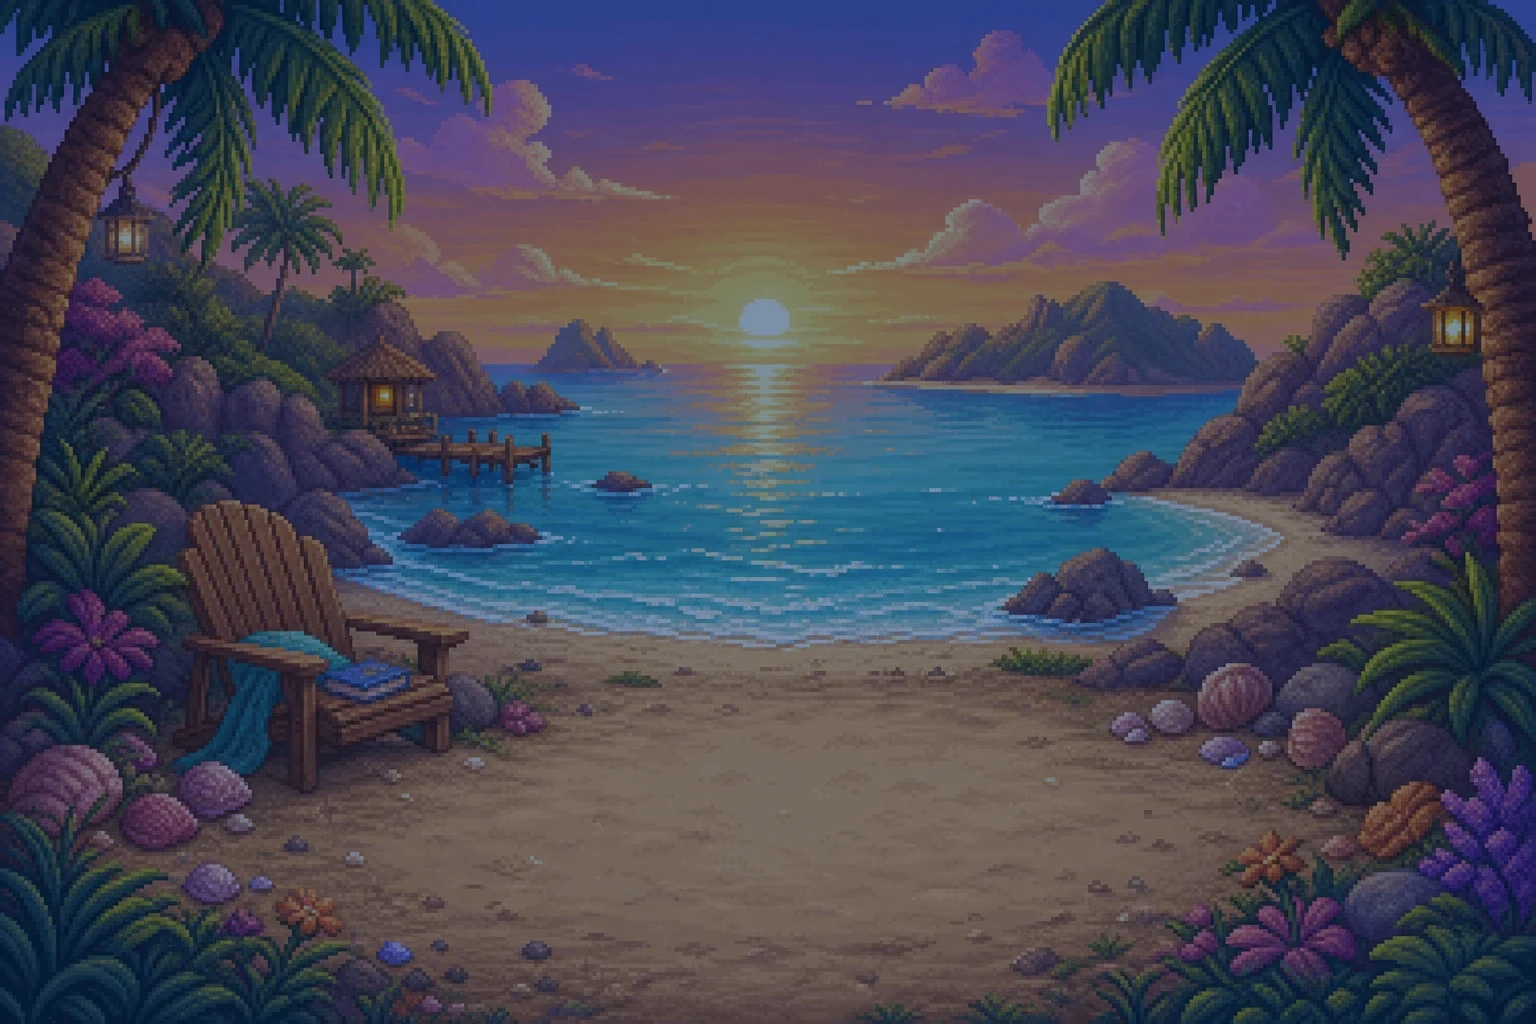
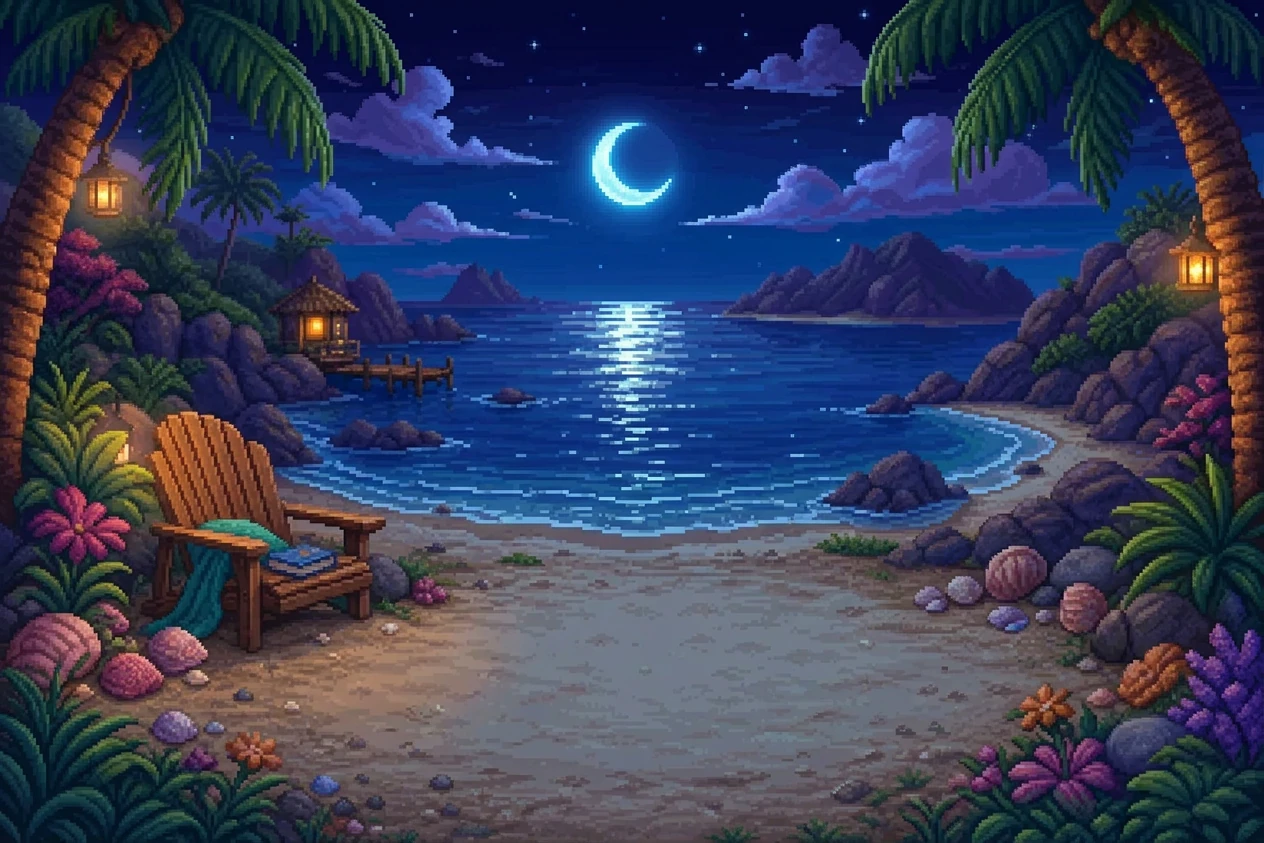
Add miniature companions and refine retained accessories

diff --git a/src/components/PetAccessory.tsx b/src/components/PetAccessory.tsx
@@ -13,6 +13,7 @@ const ART_BOUNDS = [
 /** Iconos de píxel vectoriales, compartidos por el vestidor y la escena. */
 export function PetAccessory({ id, className = '' }: { id: number; className?: string }) {
   const item = PET_ACCESSORIES[id]; if (!item) return null;
+  if (item.companion) return <img aria-hidden="true" alt="" src={item.companion.image} className={className} style={{ objectFit: 'contain', imageRendering: 'pixelated', filter: item.companion.filter }} />;
   const { kind, variant } = item;
   const ink = '#303047', main = variant ? '#7661b1' : '#cf554d', light = variant ? '#dcd3f3' : '#ffe6c5';
   return <svg aria-hidden="true" className={className} viewBox={ART_BOUNDS[kind]} preserveAspectRatio="xMidYMax meet" shapeRendering="crispEdges">
@@ -30,7 +31,7 @@ export function PetAccessory({ id, className = '' }: { id: number; className?: s
     {kind === 2 && <><path fill="#302020" d="M8 54h84v8H8zM19 49h62v7H19zM25 22h13v7h24v-7h13v29H25z"/><path fill={variant?'#ba8250':'#94613a'} d="M30 28h7v6h26v-6h7v20H30z"/><path fill="#d8a66d" d="M32 30h4v6h28v-6h4v5H32z"/><path fill="#693f2e" d="M29 41h42v8H29z"/><path fill="#e9bd6b" d="M44 41h12v8H44z"/><path fill="#6e4a31" d="M47 43h6v4h-6z"/><path fill="#bc8c59" d="M13 56h74v3H13z"/></>}
     {kind === 3 && <><path fill="#35231e" d="M31 25h13v-9h11v9h14v5h9v7h4v23h-5v7h-9v5H32v-5h-9v-7h-5V37h5v-7h8z"/><path fill={variant?'#eea847':'#d9702f'} d="M29 33h42v6h6v20h-6v6H29v-6h-6V39h6z"/><path fill="#f2a143" d="M37 31h9v34h-9zM54 31h9v34h-9z"/><path fill="#b85224" d="M33 37h3v20h-3zm30 0h3v20h-3z"/><path fill="#48683b" d="M46 17h8v14h-8zm7 0h12v5H53z"/><path fill="#f8d079" d="M33 36h4v4h-4zm23-2h4v4h-4z"/><path fill="#39241e" d="M33 43h7v6h-7zm27 0h7v6h-7zM38 55h24v4H38z"/></>}
     {kind === 4 && <><path fill="#304c32" d="M46 35h8v34h-8zM31 30h15v6H31zM54 25h15v6H54z"/><path fill="#4d8b50" d="M24 25h11v6h11v10H34v-5H24zm30 0h9v-6h14v10h-7v6H54z"/><path fill="#9bd180" d="M27 27h8v4h6v4h-7v-3h-7zm32-3h6v-3h8v4h-5v4h-9z"/>{!!variant && <><path fill="#8c546e" d="M43 10h14v6h7v12h-7v7H43v-7h-7V16h7z"/><path fill="#eaa7ba" d="M44 13h12v5h5v9h-5v5H44v-5h-5v-9h5z"/><path fill="#f4d06c" d="M46 20h8v7h-8z"/></>}</>}
-    {kind === 5 && <><path fill="#553044" d="M23 24h10v-6h13v7h8v-7h13v6h10v20H70v8h-8v8H38v-8h-8v-8h-7z"/><path fill={variant?'#dc769c':'#d5455a'} d="M28 25h13v7h18v-7h13v17h-8v8h-8v6H44v-6h-8v-8h-8z"/><path fill="#f78c97" d="M31 26h8v5h7v5H31zm24 18h7v5h-7z"/><path fill="#ffd6cc" d="M32 28h5v5h-5z"/></>}
+    {kind === 5 && <><path fill="#553044" d="M23 24h10v-6h13v7h8v-7h13v6h10v20H70v8h-8v8H38v-8h-8v-8h-7z"/><path fill={variant?'#55b9e8':'#d5455a'} d="M28 25h13v7h18v-7h13v17h-8v8h-8v6H44v-6h-8v-8h-8z"/><path fill={variant ? '#a6e4fa' : '#f78c97'} d="M31 26h8v5h7v5H31zm24 18h7v5h-7z"/><path fill={variant ? '#e8faff' : '#ffd6cc'} d="M32 28h5v5h-5z"/></>}
     {kind === 6 && <><path fill="#5a3a2b" d="M19 23h9v8h10V20h9v10h7V20h9v11h10v-8h9v42H19z"/><path fill="#c9923f" d="M24 34h18v-8h4v11h9V26h4v8h18v25H24z"/><path fill="#f3d46d" d="M28 36h13v4H28zm19 0h7v4h-7zm13 0h13v4H60zM25 56h50v4H25z"/><path fill={variant?'#ed9fac':'#87b6c8'} d="M31 46h6v7h-6zm16 0h6v7h-6zm16 0h6v7h-6z"/><path fill="#fff3be" d="M32 46h3v3h-3zm16 0h3v3h-3zm16 0h3v3h-3z"/></>}
     {kind === 7 && <><path fill={ink} d="M45 8h10l26 54H19zM14 60h72v8H14z"/><path fill={variant?'#e79a66':'#72a8c7'} d="M49 18l23 42H28z"/><path fill="#f7d877" d="M39 40h7v7h-7zm17-9h7v7h-7zm1 21h7v7h-7zM46 6h8v9h-8z"/></>}
     {kind === 8 && <><path fill={ink} d="M16 25h68v26H73v11H27V51H16z"/><path fill={variant?'#f3eee2':'#555666'} d="M21 30h58v17H68v10H32V47H21z"/><path fill={variant?'#54769b':'#e7e2cf'} d="M44 34h12v12H44zM39 48h22v4H39z"/></>}
@@ -39,7 +40,7 @@ export function PetAccessory({ id, className = '' }: { id: number; className?: s
     {kind === 11 && <><path fill={ink} d="M22 50h56v15H22zM26 36h7V25h8v-6h18v6h8v11h7v14H26z"/><path fill={variant?'#78a8c9':'#bd6273'} d="M31 38h7V28h24v10h7v12H31z"/><path fill={light} d="M22 52h56v10H22zM45 13h10v10H45z"/></>}
     {kind === 12 && <><path fill={ink} d="M21 27h8V17h42v10h8v38H21z"/><path fill={variant?'#a18b6f':'#9da9b5'} d="M27 28h7v-7h32v7h7v31H27z"/><path fill={ink} d="M30 40h40v7H30zM44 48h12v11H44z"/><path fill="#eff3e5" d="M34 31h32v4H34z"/></>}
     {kind === 13 && <><path fill={ink} d="M24 62V23h8v-7h8v23h20V16h8v7h8v39h-8V49H32v13z"/><path fill={main} d="M28 23h8v20h28V23h8v35h-6V45H34v13h-6z"/><path fill={light} d="M31 27h5v12h-5zm34 0h5v12h-5z"/></>}
-    {kind === 14 && <><path fill="#85633f" d="M17 31h8v-6h50v6h8v12h-8v6H25v-6h-8z"/><path fill={variant?'#d2d9f6':'#f9db74'} d="M25 29h50v5H25zM21 34h7v7h-7zm51 0h7v7h-7zM27 41h46v5H27z"/></>}
+    {kind === 14 && <><path fill={variant ? '#657487' : '#85633f'} d="M17 31h8v-6h50v6h8v12h-8v6H25v-6h-8z"/><path fill={variant?'#d8e3f1':'#f9db74'} d="M25 29h50v5H25zM21 34h7v7h-7zm51 0h7v7h-7zM27 41h46v5H27z"/></>}
     {kind === 15 && <><path fill="#d49646" d="M46 11h8v17h13v8h-9v13h-8v14h-8V49h-9V36h-9v-8h22z"/><path fill="#ffe68a" d="M47 21h6v14h9v5h-9v13h-6V40h-9v-5h9z"/>{!!variant && <path fill="#f5d977" d="M17 18h6v6h-6zm58 27h7v7h-7z"/>}</>}
     {kind === 16 && <><path fill="#e6b456" d="M39 11h22v8H48v9h-7v21h7v8h16v8H39v-7H27v-9h-6V27h6v-9h12z"/><path fill="#ffe7a4" d="M39 18h9v10h-7v21h7v8h-9v-7h-7V27h7z"/>{!!variant && <circle cx="51" cy="39" r="13" fill="#f5b64b"/>}</>}
     {kind === 17 && <><path fill="#98b4c5" d="M17 38h12v-9h10V19h22v8h11v10h11v18H17z"/><path fill="#f2f6f4" d="M22 38h11v-9h12v-7h14v9h11v8h9v11H22z"/>{!!variant && <path stroke="#68a8d4" strokeWidth="5" d="M30 58v9m20-9v9m20-9v9"/>}</>}
@@ -50,6 +51,15 @@ export function PetAccessory({ id, className = '' }: { id: number; className?: s
     {kind === 22 && <><path fill="#527e43" d="M47 47h6v22h-6z"/><path fill={variant?'#68ad61':'#d28242'} d="M47 46H35v-7h-9V27h9v-8h12v8h6v-8h12v8h9v12h-9v7H53z"/><path fill="#c9db8b" d="M47 32h6v15h-6z"/></>}
     {kind === 23 && <><path fill="#9c7040" d="M39 19h22v7h7v27h7v7H25v-7h7V26h7zM45 62h10v7H45z"/><path fill={variant?'#d5eafa':'#f5ca61'} d="M39 27h22v27H39z"/><path fill="#fff1bd" d="M42 30h6v16h-6z"/></>}
     {kind === 24 && <><path fill="#4e567e" d="M38 14h24l15 24-27 30-27-30z"/><path fill={variant?'#a6e1e9':'#aa94df'} d="M41 19h18l12 19-21 24-21-24z"/><path fill="#f1effe" d="M43 24h6v11h-6zm12 15h5v10h-5z"/></>}
+    {/* Costuras, reflejos y textura fina en los diseños conservados. */}
+    {kind === 0 && <><path fill={variant ? '#88d7a0' : '#ff9f91'} d="M31 45h2v-3h2v-3h2v-3h2v2h-2v3h-2v3h-2v3h-2zM54 32h2v3h2v3h2v3h-2v-2h-2v-3h-2z"/><path fill="#c6c1b6" d="M18 63h3v2h-3zm12 0h3v2h-3zm12 0h3v2h-3zm12 0h3v2h-3zm12 0h3v2h-3zm12 0h3v2h-3z"/></>}
+    {kind === 1 && <path fill="#e6d0a0" d="M35 48h2v2h-2zm7 0h2v2h-2zm17 0h2v2h-2zm7 0h2v2h-2zM48 19h2v3h-2zm6 11h2v2h-2z"/>}
+    {kind === 2 && <><path fill="#e5b983" d="M31 36h2v3h-2zm36 0h2v3h-2zM17 57h5v1h-5zm8 0h5v1h-5zm45 0h5v1h-5z"/><path fill="#fbe6a6" d="M45 42h2v2h-2zm9 0h1v2h-1z"/></>}
+    {kind === 4 && <path fill="#c9eea2" d="M29 28h3v2h-3zm7 3h3v2h-3zm28-9h4v2h-4zM49 39h2v18h-2z"/>}
+    {kind === 5 && <path fill={variant ? '#e7faff' : '#ffe9dd'} d="M34 27h3v3h-3zm5 4h3v2h-3zm22-4h4v2h-4z"/>}
+    {kind === 7 && <><path fill="#fff1bd" d="M48 19h2v3h-2zm-8 19h2v2h-2zm16-7h2v2h-2zm-22 23h2v2h-2zm27-3h2v2h-2z"/><path fill={variant ? '#c47552' : '#4f84a9'} d="M46 26h2v3h-2zm9 14h2v3h-2zM28 58h44v2H28z"/></>}
+    {kind === 11 && <><path fill={variant ? '#afd7ec' : '#eaa2aa'} d="M35 36h3v2h-3zm5-5h3v2h-3zm6 0h3v2h-3zm6 0h3v2h-3zm6 0h3v2h-3zM34 41h4v2h-4zm7 0h4v2h-4zm7 0h4v2h-4zm7 0h4v2h-4zm7 0h4v2h-4z"/><path fill="#fff" d="M47 14h5v3h-5z"/></>}
+    {kind === 11 && <path fill="#fff" d="M28 54h4v2h-4zm8 0h4v2h-4zm8 0h4v2h-4zm8 0h4v2h-4zm8 0h4v2h-4zm8 0h4v2h-4z"/>}
     {/* Luces y detalles escalonados: mismos píxeles y paleta cálida de los sprites. */}
     {kind === 7 && <path fill="#fff0bd" d="M47 20h4v5h-4zM34 53h4v4h-4zm25 0h4v4h-4z"/>}
     {kind === 8 && <><path fill="#c8a772" d="M20 28h60v3H20zM27 55h46v3H27z"/><path fill="#f3d38d" d="M45 36h10v3H45z"/></>}
@@ -58,7 +68,7 @@ export function PetAccessory({ id, className = '' }: { id: number; className?: s
     {kind === 11 && <><path fill="#e8c2c0" d="M38 29h6v4h-6zm14 0h6v4h-6z"/><path fill="#a8bbce" d="M25 59h50v3H25z"/></>}
     {kind === 12 && <><path fill="#dbe0df" d="M30 26h5v9h-5zm9-4h21v3H39z"/><path fill="#6b7181" d="M30 52h5v5h-5zm35 0h5v5h-5z"/></>}
     {kind === 13 && <path fill="#f5c7ac" d="M29 29h3v8h-3zm38 0h3v8h-3z"/>}
-    {kind === 14 && <path fill="#fff5c5" d="M28 29h20v3H28zm36 6h8v3h-8z"/>}
+    {kind === 14 && <path fill={variant ? '#f4f9ff' : '#fff5c5'} d="M28 29h20v3H28zm36 6h8v3h-8z"/>}
     {kind === 15 && <path fill="#fff4b7" d="M48 23h4v13h7v3h-7v10h-4V39h-7v-3h7z"/>}
     {kind === 16 && <path fill="#fff5bc" d="M32 28h4v18h-4zm7-8h7v4h-7z"/>}
     {kind === 17 && <path fill="#fff" d="M30 37h8v-6h10v-4h8v4H45v6h-7v4h-8z"/>}

diff --git a/src/components/PetGame.tsx b/src/components/PetGame.tsx
@@ -31,15 +31,18 @@ function PetScene({ pet, phase, className = '', compact = false, interactive = f
   // Aumentamos su tamaño base manteniendo la relación entre sus posturas.
   const widthBase = pet.species === 'munchkin' ? 80 : (compact ? 53 : 52);
   const maxWidthBase = pet.species === 'munchkin' ? (compact ? 96 : 180) : (compact ? 64 : 120);
-  const spriteWidth = `${widthBase * scale}%`;
-  const spriteMaxWidth = `${maxWidthBase * scale}px`;
   const accessory = pet.accessory === null ? null : PET_ACCESSORIES[pet.accessory];
+  const companion = accessory?.companion;
+  const sceneScale = companion ? 0.8 : 1;
+  const spriteWidth = `${widthBase * scale * sceneScale}%`;
+  const spriteMaxWidth = `${maxWidthBase * scale * sceneScale}px`;
   return <div className={`pet-scene relative overflow-hidden ${className}`}>
     <div className="pet-scene-sky" style={{ backgroundImage: `url(${petBackgroundImage(pet.background, phase)})` }} />
-    <div className={`pet-sprite absolute bottom-[5%] left-1/2 -translate-x-1/2 ${compact ? 'pet-sprite-compact' : 'w-[52%] max-w-[240px]'}`} style={calibrated ? { width: spriteWidth, maxWidth: spriteMaxWidth } : undefined}>
+    <div className={`pet-sprite absolute bottom-[5%] left-1/2 -translate-x-1/2 ${compact ? 'pet-sprite-compact' : 'w-[52%] max-w-[240px]'}`} style={calibrated ? { width: spriteWidth, maxWidth: spriteMaxWidth, ...(companion ? { left: '40%' } : {}) } : companion ? { left: '40%', width: compact ? '62.4%' : '41.6%', maxWidth: compact ? '80px' : '192px' } : undefined}>
       <PixelPet species={pet.species} skin={pet.skin} pose={pose} className="w-full drop-shadow-[0_9px_2px_rgba(33,44,32,.3)]" />
-      {accessory && <div className="absolute pointer-events-none drop-shadow-md" style={accessory.placement === 'side' ? { width: '28%', bottom: '2%', left: head.x > 50 ? '4%' : '72%' } : { width: `${head.width}%`, left: `${head.x}%`, top: `${head.y}%`, transform: `translate(-50%, ${[5, 14, 15, 16, 17, 20, 24].includes(accessory.kind) ? '-110%' : '-96%'})` }}><PetAccessory id={accessory.id} className="w-full" /></div>}
+      {accessory && !companion && <div className="absolute pointer-events-none drop-shadow-md" style={{ width: `${head.width}%`, left: `${head.x}%`, top: `${head.y}%`, transform: `translate(-50%, ${accessory.kind === 4 ? '-94%' : [5, 14].includes(accessory.kind) ? '-110%' : '-96%'})` }}><PetAccessory id={accessory.id} className="w-full" /></div>}
     </div>
+    {accessory && companion && <div className="absolute pointer-events-none bottom-[5%] left-[73%] w-[24%] max-w-[64px] drop-shadow-md"><PetAccessory id={accessory.id} className="w-full" /></div>}
     {interactive && <button type="button" onClick={advance} aria-label={`Saludar a ${petName(pet)} y cambiar postura`} className="absolute inset-x-[20%] bottom-0 h-[75%] rounded-full focus-visible:outline focus-visible:outline-2 focus-visible:outline-white" />}
   </div>;
 }

diff --git a/src/petGame.ts b/src/petGame.ts
@@ -54,9 +54,30 @@ const ACCESSORY_NAMES = [
   ['Hoja otoñal', 'Hoja de trébol'], ['Campanita', 'Copo de nieve'],
   ['Cristal mágico', 'Diamante brillante'],
 ] as const;
+// Los identificadores se conservan: una selección guardada ocupa el mismo
+// nivel y se convierte en su nuevo compañero cuando el diseño se reemplaza.
+const KEPT_ACCESSORY_IDS = new Set([0, 1, 2, 3, 4, 5, 8, 9, 10, 11, 14, 15, 22, 23, 28, 29]);
+const COMPANION_TYPES = [
+  ['rabbit', 'Conejito'], ['fox', 'Zorrito'], ['frog', 'Ranita'], ['hedgehog', 'Erizo'],
+  ['owl', 'Búho'], ['turtle', 'Tortuguita'], ['squirrel', 'Ardilla'], ['hamster', 'Hámster'],
+] as const;
+const COMPANION_PALETTES = [
+  { label: 'clásico', filter: 'none' },
+  { label: 'plateado', filter: 'saturate(.55) brightness(1.12)' },
+  { label: 'otoñal', filter: 'sepia(.35) saturate(1.15)' },
+  { label: 'mágico', filter: 'hue-rotate(35deg) saturate(.8)' },
+  { label: 'luminoso', filter: 'brightness(1.2) saturate(.8)' },
+] as const;
+let companionIndex = 0;
 export const PET_ACCESSORIES = Array.from({ length: 50 }, (_, id) => {
   const kind = Math.floor(id / 2), variant = id % 2;
-  return { id, kind, variant, name: ACCESSORY_NAMES[kind][variant], level: (id + 1) * 2, placement: ([3, 19].includes(kind) ? 'side' : 'head') as 'side' | 'head' };
+  const companion = KEPT_ACCESSORY_IDS.has(id) ? null : (() => {
+    const n = companionIndex++;
+    const [image, label] = COMPANION_TYPES[n % COMPANION_TYPES.length];
+    const palette = COMPANION_PALETTES[Math.floor(n / COMPANION_TYPES.length)];
+    return { image: `/pets/companions/${image}.webp`, label: `${label} ${palette.label}`, filter: palette.filter };
+  })();
+  return { id, kind, variant, name: companion?.label ?? ACCESSORY_NAMES[kind][variant], level: (id + 1) * 2, placement: (companion ? 'side' : 'head') as 'side' | 'head', companion };
 });
 export const DEFAULT_PET: PetSettings = { species: 'cat', skin: 0, name: '', background: 'garden', accessory: null };
 export function normalizePet(value: unknown): PetSettings {
